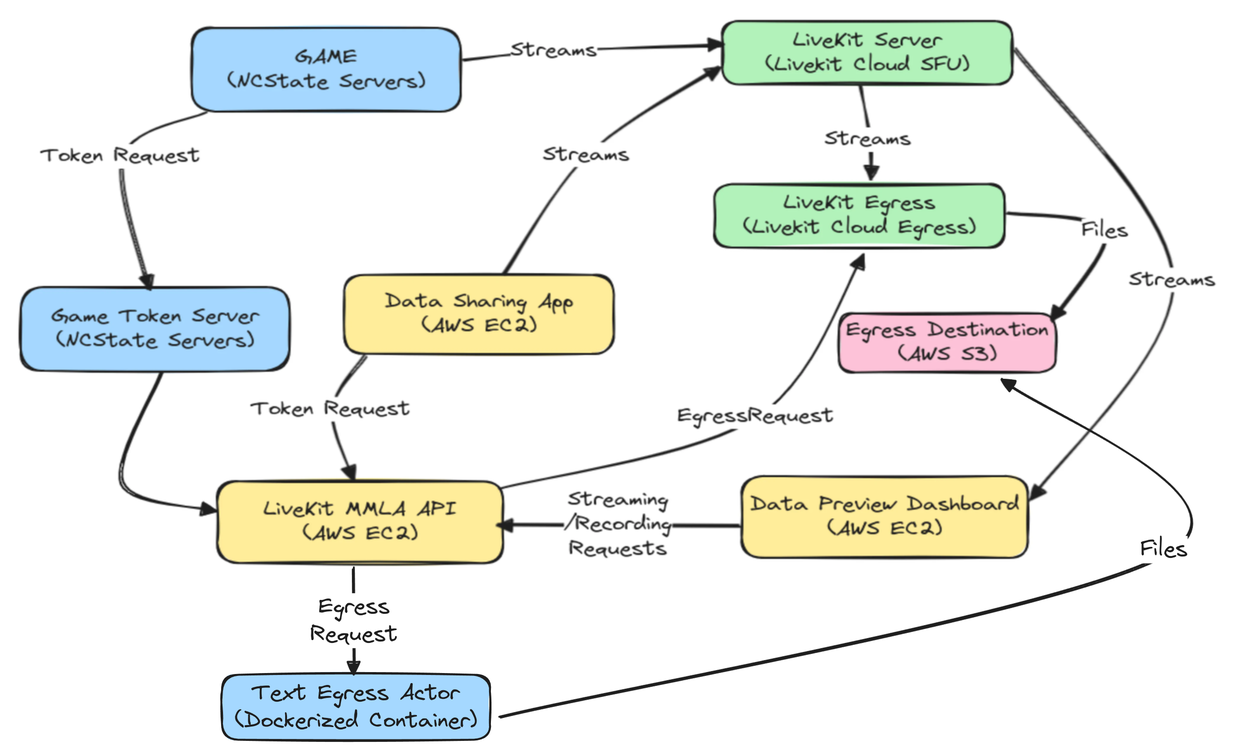
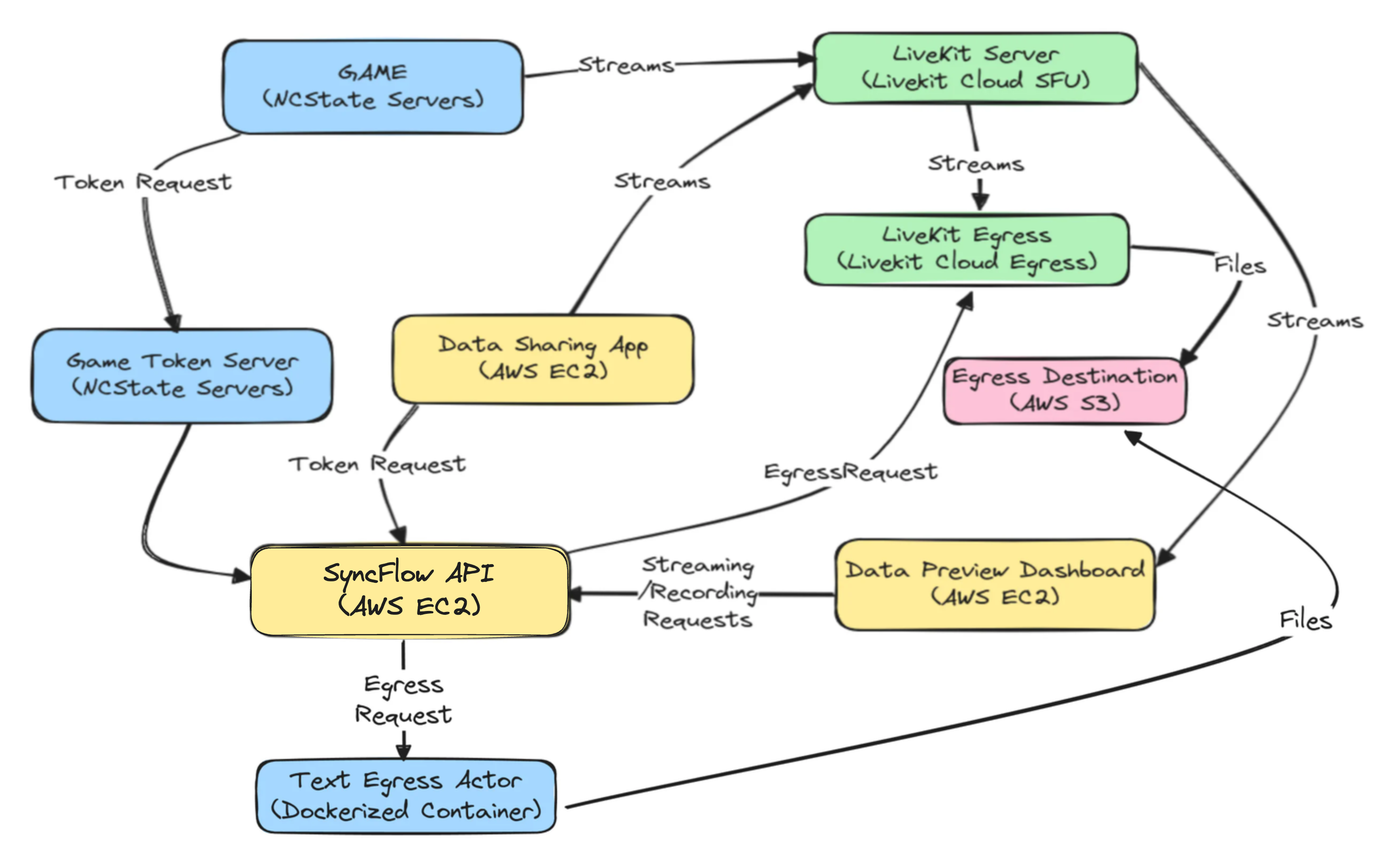
Misc fixes to change from LiveKitMMLA to SyncFlow (#12)
* Misc fixes to change from LiveKitMMLA to SyncFlow

* Replace deployment images

diff --git a/content/blog/days-of-collection/index.md b/content/blog/days-of-collection/index.md
@@ -1,7 +1,7 @@
 ---
 title: "Days of Collection, Days of Despair"
-description: "A tale of evolution from ChimeraPy to LiveKitMMLA"
-summary: "A tale of evolution from ChimeraPy to LiveKitMMLA"
+description: "A tale of evolution from ChimeraPy to SyncFlow"
+summary: "A tale of evolution from ChimeraPy to SyncFlow"
 date: 2024-04-25T16:27:22+02:00
 lastmod: 2024-04-25T16:27:22+02:00
 draft: false
@@ -17,9 +17,13 @@ seo:
   canonical: "" # custom canonical URL (optional)
   noindex: true # false (default) or true
 ---
-*Note: This document was reviewed and corrected for spelling and grammar with the assistance of AI-based tools.*
+*Note 1: This document was reviewed and corrected for spelling and grammar with the assistance of AI-based tools.*
 
-{{< img process="fill 5000x900" lqip="21x webp q20" loading="eager" fetchpriority="high" src="images/DaysOfCollection/livekit-mmla.png" alt="livekit-mmla" >}}
+*Note 2: SyncFlow was initially named as LiveKitMMLA.*
+
+*Note 3: The top level domain used for the IACT study was changed from livekit-mmla.org to syncflow.org for the sake of clarity in the narrative of the blog post.* 
+
+{{< img process="fill 5000x900" lqip="21x webp q20" loading="eager" fetchpriority="high" src="images/DaysOfCollection/syncflow.png" alt="syncflow.png" >}}
 
 ## Contents
 1. [Introduction](#introduction)
@@ -27,7 +31,7 @@ seo:
 3. [The V1: ChimeraPy](#the-v1-chimerapy)
 4. [GEM-STEP Fall 2023 (GSDCP)](#gemstep-fall-2023-gsdcp)
 5. [The Shift to LiveKit: A Rationale](#the-shift-to-livekit-a-rationale)
-6. [LiveKit Integration: LivekitMMLA](#livekit-integration-livekitmmla)
+6. [LiveKit Integration: SyncFlow](#livekit-integration-syncflow)
 7. [IACT Study: Spring 2024](#i-act-study-spring-2024)
 8. [Practical Outcomes, Experiences and Lessons Learned](#practical-outcomes-experiences-and-lessons-learned)
 9. [The Road Ahead](#the-road-ahead)
@@ -96,7 +100,7 @@ In the context of this data flow architecture, each `Node` must implement three 
 
 So far, we have only discussed the streaming aspects of ChimeraPy; however, as previously noted, streaming and processing multimodal data is only one aspect, and storage is another. In ChimeraPy, rather than using a centralized entity to record individual modalities, the data is recorded by individual workers executing the nodes. After the streaming operation is over (the manager is directed to stop), the recorded data is packaged and sent to the Manager via network file transfer. This approach strikes the right balance between not having to use too many sockets to record data and achieving centralized collection. Additionally, the Node in ChimeraPy provides built-in support to record video, audio, text, JSON, etc., via parametric functions that users can utilize in its `step` function to save the data generated by the Node.
 
-The bare bones of the streaming system were ready, although we had to handle numerous bug fixes and pattern changes. Eduardo was already using the system to collect data for his [Reading Project](https://github.com/RedForestAI/reading_experiment_codes), with some level of success. However, there were various shortcomings and additional features we wanted to cover. First of all, we realized that DAG construction via Python scripts was untenable due to the portability issues of those scripts. Secondly, we needed a configurable way to reuse the nodes that we wrote for a project and to create an ecosystem of reusable nodes. Thirdly, since this system was intended to be used by researchers, we wanted to employ concepts from meta-programming so that nodes and the DAG could be created and deployed from a web dashboard. This led to the development of [`ChimeraPy/Orchestrator`](https://github.com/ChimeraPy/Orchestrator) and the eventual refactoring of the networking engine from [`ChimeraPy`](https://github.com/ChimeraPy) to [`ChimeraPy/Engine`](https://github.com/ChimeraPy/Engine). The ChimeraPyOrchestrator would eventually provide reusable nodes and an orchestration scheme/dashboard application for ChimeraPy with JSON configuration. We also created [`ChimeraPy/Pipelines`](https://github.com/ChimeraPy/Pipelines), a repository of shareable ChimeraPy pipelines. Leveraging the `Orchestrator` and `Engine` constructs, we achieved an application interface for the ChimeraPy framework, which we used for writing various MMLA collection and analytics applications. There were quite a few feature backlogs as well as bug fixes needed, but we had achieved a functional CLI and system for using reusable software to stream, process, and collect multi-modal data, leading to the following system diagram.
+The bare bones of the streaming system were ready, although had to handle numerous bug fixes and pattern changes. Eduardo was already using the system to collect data for his [Reading Project](https://github.com/RedForestAI/reading_experiment_codes), with some level of success. However, there were various shortcomings and additional features we wanted to cover. First of all, we realized that DAG construction via Python scripts was untenable due to the portability issues of those scripts. Secondly, we needed a configurable way to reuse the nodes that we wrote for a project and to create an ecosystem of reusable nodes. Thirdly, since this system was intended to be used by researchers, we wanted to employ concepts from meta-programming so that nodes and the DAG could be created and deployed from a web dashboard. This led to the development of [`ChimeraPy/Orchestrator`](https://github.com/ChimeraPy/Orchestrator) and the eventual refactoring of the networking engine from [`ChimeraPy`](https://github.com/ChimeraPy) to [`ChimeraPy/Engine`](https://github.com/ChimeraPy/Engine). The ChimeraPyOrchestrator would eventually provide reusable nodes and an orchestration scheme/dashboard application for ChimeraPy with JSON configuration. We also created [`ChimeraPy/Pipelines`](https://github.com/ChimeraPy/Pipelines), a repository of shareable ChimeraPy pipelines. Leveraging the `Orchestrator` and `Engine` constructs, we achieved an application interface for the ChimeraPy framework, which we used for writing various MMLA collection and analytics applications. There were quite a few feature backlogs as well as bug fixes needed, but we had achieved a functional CLI and system for using reusable software to stream, process, and collect multi-modal data, leading to the following system diagram.
 
 ![ChimeraPy Architecture](images/DaysOfCollection/chimerapy-architecture.png)
 
@@ -181,7 +185,7 @@ One of the standout features of the LiveKit ecosystem is that it is completely o
 
 In our specific context, the most significant advantage was LiveKit’s out-of-the-box support for video, audio, and screen, as well as data streaming from the browser, which had been a major bottleneck in our ChimeraPy project. Additionally, LiveKit's [Egress](https://docs.livekit.io/egress-ingress/) feature allows for saving the streams to cloud storage, with synchronization achieved via seconds from the Unix epoch as timestamps for audio and video data. Furthermore, the [Agents](https://docs.livekit.io/agents/) framework in LiveKit offers a streamlined solution for processing and providing feedback on participants' streams. All of these features made it clear that pivoting to LiveKit was the right move for us, and we were ready to make the switch.
 
-## LiveKit Integration: LiveKitMMLA
+## LiveKit Integration: SyncFlow
 Before we dive into how we integrated LiveKit, let's examine what a typical "LiveKit Workflow" looks like. A LiveKit server can either be self-hosted or accessed via the [LiveKit Cloud](https://cloud.livekit.io) for an already operational LiveKit deployment. Typically, a server has a `ws(s)` URL that clients need to connect to. Additionally, to send authenticated requests to the server, a set of API key-secret pairs must be generated.
 
 The LiveKit SDKs are divided into two main categories: 
@@ -196,37 +200,37 @@ For the collection aspect of the GEM-STEP Data Collection Pipeline (GSDCP), the 
 
 This exercise was particularly effective as it allowed me to delve deeper into how things operate within the LiveKit ecosystem. The extensive [React components library](https://docs.livekit.io/reference/components/react/) provided by LiveKit made the development experience smoother. At the time, I also explored implementations for [Meet](https://meet.livekit.io/) and [Kitt](https://kitt.livekit.io/), two example projects within LiveKit that utilized the React components library. The LiveKit GitHub repository offers excellent starter examples for nearly every SDK, which greatly facilitates newcomers to the ecosystem. Additionally, the community support provided by their Slack channel was outstanding, offering helpful responses to a wide range of user questions, no matter how trivial.
 
-As we went further in the development of this NextJS app, Eduardo and Me came to the conclusion that rather than building one-off solutions for the individual use cases, we need to come up with a generic solution that we could repurpose and enhance for all the studies within OELE and the Institute in general. This is when we brewed the idea for "LiveKitMMLA: LiveKit integration for various MMLA tasks". Our idea was to provide an orchestration dashboard that various learning environments could reuse to preview and record data for the classroom studies, provided they integrate with our ecosystem. The overall architecture would look like the following:
+As we went further in the development of this NextJS app, Eduardo and I came to the conclusion that rather than building one-off solutions for the individual use cases, we need to come up with a generic solution that we could repurpose and enhance for all the studies within OELE and the Institute in general. This is when we brewed the idea for "SyncFlow: Harmonize Your Data Streams". Our idea was to provide an orchestration dashboard that various learning environments could reuse to preview and record data for the classroom studies, provided they integrate with our ecosystem. The overall architecture would look like the following:
 
-![LiveKitMMLA Architecture](/images/DaysOfCollection/livekit-mmla-arch.png)
+![Syncflow Architecture](/images/DaysOfCollection/syncflow-arch.png)
 
-*Proposed LiveKitMMLA Architecture*
+*Proposed SyncFlow Architecture*
 
 Basically, we would create a backend for generating user tokens and managing room recordings, as well as comprehensive user management. A dashboard would be used to preview and record data, and an IoT client for streaming from local peripheral devices, as well as integration channels for various learning environments to join LiveKit rooms.
 
-While trying to refactor the NextJS app to fit this pursuit, I quickly realized that we would require a more comprehensive solution than just a NextJS server-side solution. For example, I wanted to integrate IoT client support within the NextJS app, which was not the ideal use case for NextJS. So, eventually, we decided to plan the LiveKitMMLA backend, following in the footsteps of the LiveKit ecosystem. We planned the following components for the backend:
+While trying to refactor the NextJS app to fit this pursuit, I quickly realized that we would require a more comprehensive solution than just a NextJS server-side solution. For example, I wanted to integrate IoT client support within the NextJS app, which was not the ideal use case for NextJS. So, eventually, we decided to plan the SyncFlow backend, following in the footsteps of the LiveKit ecosystem. We planned the following components for the backend:
 
-![LiveKitMMLA Backend](/images/DaysOfCollection/livekit-mmla-backend.png)
+![Syncflow Backend](/images/DaysOfCollection/syncflow-backend.png)
 
-*LiveKitMMLA Backend Components*
+*SyncFlow Backend Components*
 
-The LiveKitMMLA backend consists of the following components:
+The SyncFlow backend consists of the following components:
 
 1. **Domain**: The database and ORM interaction module for the system.
 2. **Shared**: Common reusable functions and utilities.
 3. **Application**: Main application logic for creating LiveKit rooms, sending recording requests, stopping recording, managing users, and handling API keys and secrets.
-4. **REST API**: The server and routes for the LiveKitMMLA application.
-5. **Client(s)**: REST clients, preferably packaged in various languages, for interacting with the REST API and the LiveKitMMLA application.
-6. **CLI**: The command-line interface (CLI) for the LiveKitMMLA application.
+4. **REST API**: The server and routes for the SyncFlow application.
+5. **Client(s)**: REST clients, preferably packaged in various languages, for interacting with the REST API and the SyncFlow application.
+6. **CLI**: The command-line interface (CLI) for the SyncFlow application.
 7. **IoT**: The streamer for IoT devices.
 
 With these components, we believed we could create a comprehensive integration of LiveKit for MMLA tasks. Eventually, the time came to choose a language for implementation, for which we opted for [Rust](https://www.rust-lang.org/). For the database, we selected [PostgreSQL](https://www.postgresql.org/) with [Diesel](https://diesel.rs/) as the ORM, and for the web server, we used [Actix](https://actix.rs/).
 
-We successfully refactored the NextJS application to utilize the LiveKitMMLA REST API, and all server-side actions of LiveKit were controlled by LiveKitMMLA. For the entire deployment, there is a single LiveKit server that the admin users can use to create a LiveKit room. Additionally, a single S3 bucket is used to save and record data from the LiveKit Egress servers. We deployed the applications on a single AWS EC2 instance accessible at [`https://dashboard.livekit-mmla.org`](https://dashboard.livekit-mmla.org). The application also implemented an API key and secret-based request middleware, where the application recognizes and authorizes requests with JWTs signed by the key and secret. Thus, the workflow is that admin users and developers of the learning environments generate their API keys and secrets and send requests to the LiveKitMMLA API by signing a bearer token with their key and secret for LiveKitMMLA. We also worked on a local data-sharing app [`https://example-app.livekit-mmla.org`](https://example-app.livekit-mmla.org) for sharing local devices from the browser. However, we have not yet developed the IoT device streaming. We want to get this right and create a system with minimal friction, a task set for summer 2024. The mono-repo is available [here](https://github.com/oele-isis-vanderbilt/LiveKitMMLA.git), but still needs a lot of work and refactorings.
+We successfully refactored the NextJS application to utilize the SyncFlow REST API, and all server-side actions of LiveKit were controlled by SyncFlow. For the entire deployment, there is a single LiveKit server that the admin users can use to create a LiveKit room. Additionally, a single S3 bucket is used to save and record data from the LiveKit Egress servers. We deployed the applications on a single AWS EC2 instance accessible at [`https://dashboard.syncflow.live`](https://dashboard.syncflow.live). The application also implemented an API key and secret-based request middleware, where the application recognizes and authorizes requests with JWTs signed by the key and secret. Thus, the workflow is that admin users and developers of the learning environments generate their API keys and secrets and send requests to the SyncFlow API by signing a bearer token with their key and secret for SyncFlow. We also worked on a local data-sharing app [`https://example-app.syncflow.live`](https://example-app.syncflow.live) for sharing local devices from the browser. However, we have not yet developed the IoT device streaming. We want to get this right and create a system with minimal friction, a task set for summer 2024. The mono-repo is available [here](https://github.com/oele-isis-vanderbilt/SyncFlow.git), but still needs a lot of work and refactorings.
 
-Our collaborators at [NC State](https://www.intellimedia.ncsu.edu/people/) were keen on integrating ChimeraPy with the AI Institute's flagship narrative-centered learning environment. While [Vikram](https://www.intellimedia.ncsu.edu/people/vkumara/) had already done some work with ChimeraPy, the integration we initially planned needed to shift to use LiveKitMMLA. Therefore, we created an account for them, and they were able to implement and create an integration of ["Crystal Island: EcoJourneys"](https://sites.google.com/ncsu.edu/intellimedia-ecojourneys/) with LiveKitMMLA. This would stream audio, video, and game logs (Unity-based) to a room created in LiveKitMMLA. During this collaboration, we also realized that in order to save application logs, we needed to write our own text/data saving plugin, as LiveKit egress only supports audio and video. So, we wrote a separate text egress plugin aptly named [`livekit-text-egress-actor`](https://github.com/oele-isis-vanderbilt/livekit-text-egress-actor). 
+Our collaborators at [NC State](https://www.intellimedia.ncsu.edu/people/) were keen on integrating ChimeraPy with the AI Institute's flagship narrative-centered learning environment. While [Vikram](https://www.intellimedia.ncsu.edu/people/vkumara/) had already done some work with ChimeraPy, the integration we initially planned needed to shift to use SyncFlow. Therefore, we created an account for them, and they were able to implement and create an integration of ["Crystal Island: EcoJourneys"](https://sites.google.com/ncsu.edu/intellimedia-ecojourneys/) with SyncFlow. This would stream audio, video, and game logs (Unity-based) to a room created in SyncFlow. During this collaboration, we also realized that in order to save application logs, we needed to write our own text/data saving plugin, as LiveKit egress only supports audio and video. So, we wrote a separate text egress plugin aptly named [`livekit-text-egress-actor`](https://github.com/oele-isis-vanderbilt/livekit-text-egress-actor). 
 
-The actual test of the LiveKitMMLA integration was scheduled for the [I-ACT](https://sites.google.com/ncsu.edu/intellimedia-iact/) study in April 2024, which will took place at a middle school in midwestern United States. This provided a practical opportunity to evaluate the effectiveness of the LiveKit implementation in a real-world educational setting.
+The actual test of the SyncFlow integration was scheduled for the [I-ACT](https://sites.google.com/ncsu.edu/intellimedia-iact/) study in April 2024, which took place at a middle school in midwestern United States. This provided a practical opportunity to evaluate the effectiveness of the LiveKit implementation in a real-world educational setting.
 
 ## I-ACT Study: Spring 2024
 In March 2024, we were tasked with building and planning a data collection pipeline for an upcoming I-ACT study at a middle school in midwestern United States. The study would use ["Crystal Island: EcoJourneys"](https://sites.google.com/ncsu.edu/intellimedia-ecojourneys/), a 3D game that students would play to learn about aquatic ecosystems and pollution on an island in the Philippines. This integration presented significant challenges due to the following factors:
@@ -243,23 +247,23 @@ Based on the classroom layout provided by the IU team, students would play the g
 
 *Classroom layout and data collection plan for I-ACT study, spring 2024*
 
-In addition to the audio and video modalities, we also intended to collect game play logs using the same setup. The idea was to collect synchronized audio, video and text streams through LiveKitMMLA. Overall, this was a relatively complicated setup with multiple pieces, enumerated below:
+In addition to the audio and video modalities, we also intended to collect game play logs using the same setup. The idea was to collect synchronized audio, video and text streams through SyncFlow. Overall, this was a relatively complicated setup with multiple pieces, enumerated below:
 
 1. **GAME (Unity + WebGL based)**: Game play with capabilities to send logs/audio/video streams 
 2. **Token Server For the game (Python)**: Permissions based token generation for streaming data for the game
 3. **Data Preview Dashboard (NextJS)**: Data preview/recording dashboard
-4. **LiveKit MMLA Api (Rust)**: API for controlling/orchestrating everything 
-5. **LiveKit MMLA sharing app (NextJS)**: Camera/Microphone Sharing app
+4. **SyncFlow Api (Rust)**: API for controlling/orchestrating everything 
+5. **SyncFlow data sharing app (NextJS)**: Camera/Microphone Sharing app
 6. **LiveKit Server (Go)**: WebRTC SFU server
 7. **Livekit Egress (Go)**: Data Recorder
 8. **S3 Bucket (Minio/AWS S3)**: Data Recording Destination
 9. **Text Egress Server (Rust)**: Data Recorder for textual data
 
-We not only needed to ensure that everything functioned cohesively but also had to thoroughly test this setup in advance. Testing proved challenging because replicating the classroom environment at OELE was required. At this stage, the integration between the game and LiveKitMMLA was functioning well, but we hadn't yet tested the system at scale. Initially, we were prepared for cloud based deployment of the systems, rendering the following deployment plan(figure below), most of which was achieved using GitHub actions.
+We not only needed to ensure that everything functioned cohesively but also had to thoroughly test this setup in advance. Testing proved challenging because replicating the classroom environment at OELE was required. At this stage, the integration between the game and SyncFlow was functioning well, but we hadn't yet tested the system at scale. Initially, we were prepared for cloud based deployment of the systems, rendering the following deployment plan(figure below), most of which was achieved using GitHub actions.
 
 ![Cloud Based Deployment Plan for I-ACT](/images/DaysOfCollection/iact-deployment-plana.png)
 
-*LiveKit-EcoJourneys cloud deployment plan for I-ACT study, Spring 2024*
+*SyncFlow-EcoJourneys cloud deployment plan for I-ACT study, Spring 2024*
 
 However, we were uncertain about the school's bandwidth, which made it difficult to guarantee that everything could be delivered from the cloud. Given the tight deadlines, we opted for a local setup, which proved to be more challenging than expected. Firstly, we anticipated using each system in insecure contexts (HTTP) by bypassing browser security constraints, but this was not possible in the WebGL context. The process became cumbersome due to the unusual nature of the links, as we had to access various systems using the `http://server-ip:port` scheme. This added significant cognitive load for researchers and educators using the system. Additionally, security was a concern since LiveKit was also deployed in an insecure context.
 
@@ -267,13 +271,13 @@ To address this issue, we experimented with [MkCert](https://github.com/FiloSott
 
 Finally, we realized that this local deployment plan needed to be more robust. Further research suggested that modifying the router configuration to point to a local [DNS server](https://thekelleys.org.uk/dnsmasq/doc.html) to make fake domain names accessible over a LAN would be a feasible solution. However, trusted certificates were still required for HTTPS accessibility. At this point, we considered hosting our own [LAN certification authority](https://smallstep.com/blog/build-a-tiny-ca-with-raspberry-pi-yubikey/), but we didn't have the time or resources.
 
-Instead, we decided on a workaround. We already owned the domain `livekit-mmla.org` and had generated certificates for it using Let's Encrypt on an EC2 instance. To make this work, we generated Let's Encrypt certificates for local domains (e.g., `dashboard.local.livekit-mmla.org`, `ecojourneys.local.livekit-mmla.org`) on an AWS EC2 instance, and copied these certificates to the local server. With this configuration and the duplicated certificates, the dockerized LAN deployment plan worked seamlessly.
+Instead, we decided on a workaround. We already owned the domain `syncflow.live` and had generated certificates for it using Let's Encrypt on an EC2 instance. To make this work, we generated Let's Encrypt certificates for local domains (e.g., `dashboard.local.syncflow.live`, `ecojourneys.local.syncflow.live`) on an AWS EC2 instance, and copied these certificates to the local server. With this configuration and the duplicated certificates, the dockerized LAN deployment plan worked seamlessly.
 
 The deployment files for the LiveKit-EcoJourneys LAN setup can be found in [this GitHub repository](https://github.com/oele-isis-vanderbilt/livekit-ecojourneys-deployment), as shown in the figure below:
 
 ![Local Deployment Plan for I-ACT](/images/DaysOfCollection/iact-deployment.png)
 
-*LiveKit-EcoJourneys local deployment plan for I-ACT study, Spring 2024*
+*SyncFlow-EcoJourneys local deployment plan for I-ACT study, Spring 2024*
 
 With this deployment plan, we were able to set up and test everything, and the preliminary results were promising. After wrapping up the tests at Vanderbilt, I packed my bags along with the server, microphones, router, and everything else needed, and drove to Bloomington, Indiana, in mid-April 2024. Upon visiting the classroom, we realized that the server and router could be stored there. On the first day of the study, we successfully collected 40-50 student audio, video, and text streams. However, we were short on microphones and decided to purchase a few tabletop microphones.
 
@@ -289,11 +293,11 @@ As the days progressed, we improved on prior results, streamlining the collectio
 
 During one of the days, we tested the cloud setup since we had access to the school's internet. To our surprise, the cloud-based deployment worked well for 10 participants. We then realized that a cloud-based setup would be ideal for future studies at the school.
 
-Overall, the outcome of the study was positive, and we were able to collect the multimodal data as anticipated using LiveKitMMLA, despite it being the first time the system was used. During the study, we made room creation configurable via Google Sheets, allowing room names to be date-specific. This proved useful since we had configured Egress to save streams by room name. Across the five days, we successfully achieved the following path structure in `minio`:
+Overall, the outcome of the study was positive, and we were able to collect the multimodal data as anticipated using SyncFlow, despite it being the first time the system was used. During the study, we made room creation configurable via Google Sheets, allowing room names to be date-specific. This proved useful since we had configured Egress to save streams by room name. Across the five days, we successfully achieved the following path structure in `minio`:
 
 ![Saved data files](/images/DaysOfCollection/pathstructure.png)
 
-*Path structure in minio for LiveKitMMLA I-ACT study data collection*
+*Path structure in minio for SyncFlow I-ACT study data collection*
 
 For each audio/video stream, depending on the codec used for streaming (LiveKit supports a variety of codes), we were able to save `mp4/webm/ogg` files, as depicted below:
 
@@ -329,11 +333,9 @@ Despite the challenges, our efforts have been fruitful. With different versions 
 ## The Road Ahead
 The road ahead is promising. At the institutional level, numerous multimodal analytics research projects are ongoing and nearly production-ready. At this point, different aspects of the MMLA Pipeline not only support data collection but also facilitate analysis and feedback. We've conducted several integration studies with the learning environments used within the institution, mainly focused on data collection. Through these studies, we've identified numerous opportunities for enhanced analysis and feedback integration. We plan to incorporate institutional research to refine this feedback for multiple learning environments.
 
-At the same time, we aim to implement several software engineering improvements. While the dashboard UI performs well for 20-30 simultaneous streams, it requires paginated views and proper planning to handle hundreds of streams. The current architecture supports only a single LiveKit server configuration and one S3 storage location. Over the summer, we plan to adjust the backend so that users conducting multimodal data collection for MMLA can utilize their own LiveKit deployments and storage, further streamlining the process. This would position LiveKit MMLA as primarily an orchestrator with access to user and project resources. Additionally, to address the recording issues, implementing an **Auto Egress** mechanism would automatically start and stop recording as participants enter or leave rooms, which we intend to refactor.
+At the same time, we aim to implement several software engineering improvements. While the dashboard UI performs well for 20-30 simultaneous streams, it requires paginated views and proper planning to handle hundreds of streams. The current architecture supports only a single LiveKit server configuration and one S3 storage location. Over the summer, we plan to adjust the backend so that users conducting multimodal data collection for MMLA can utilize their own LiveKit deployments and storage, further streamlining the process. This would position SyncFlow as primarily an orchestrator with access to user and project resources. Additionally, to address the recording issues, implementing an **Auto Egress** mechanism would automatically start and stop recording as participants enter or leave rooms, which we intend to refactor.
 
 Additionally, we intend to invest significant software engineering efforts in the LiveKit IoT client to better support data collection from various sensors and local devices, thereby meeting our needs comprehensively.
-
-Finally, we are considering changing the name "LiveKitMMLA," primarily to explore new ideas and meet our exposure needs.
 
 
 ## Call To Action
@@ -341,7 +343,7 @@ We invite researchers, educators and developers interested in MMLA to collaborat
 
 By contributing to our open-source project, you can help refine real-time data collection, analysis, and feedback methods that empower learning environments. Together, we can address integration and feedback challenges while improving educational outcomes.
 
-If you have any questions/suggestions, please reachout to [me](mailto:umesh.timalsina@vanderbilt.edu) or [Eduardo](mailto:eduardo.davalos.anaya@vanderbilt.edu). 
+If you have any questions/suggestions, please reachout to [me](mailto:umesh.timalsina@vanderbilt.edu)  or [Eduardo](mailto:eduardo.davalos.anaya@vanderbilt.edu). 
 
 
 ## Special Mention: Eduardo
